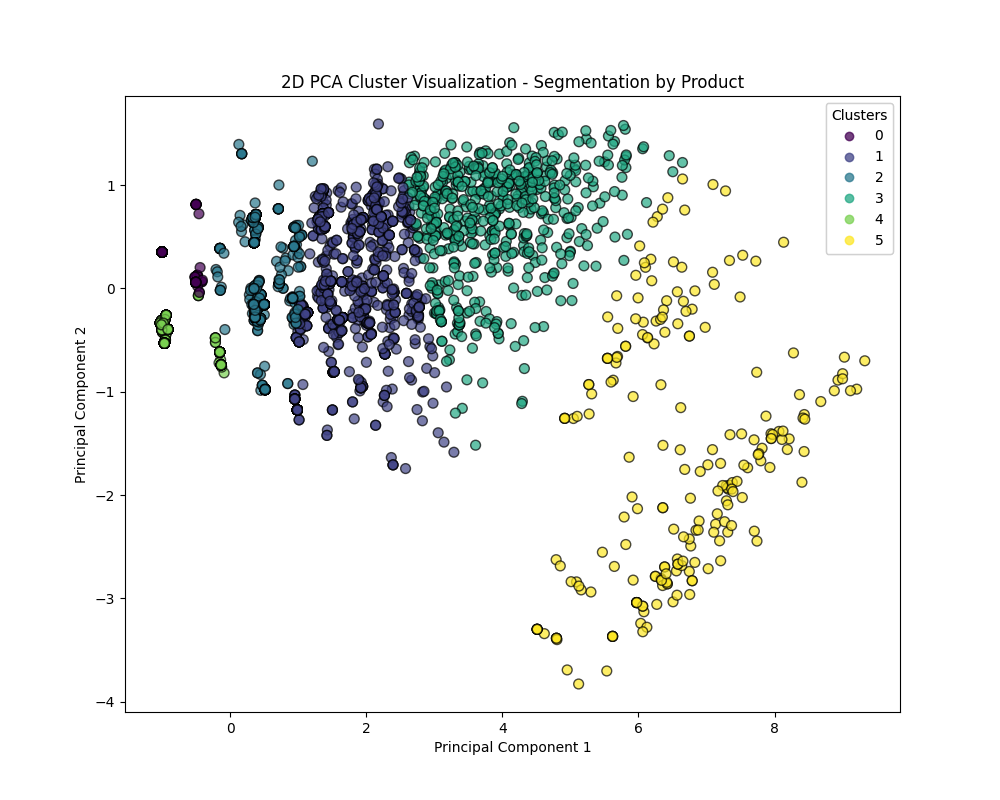
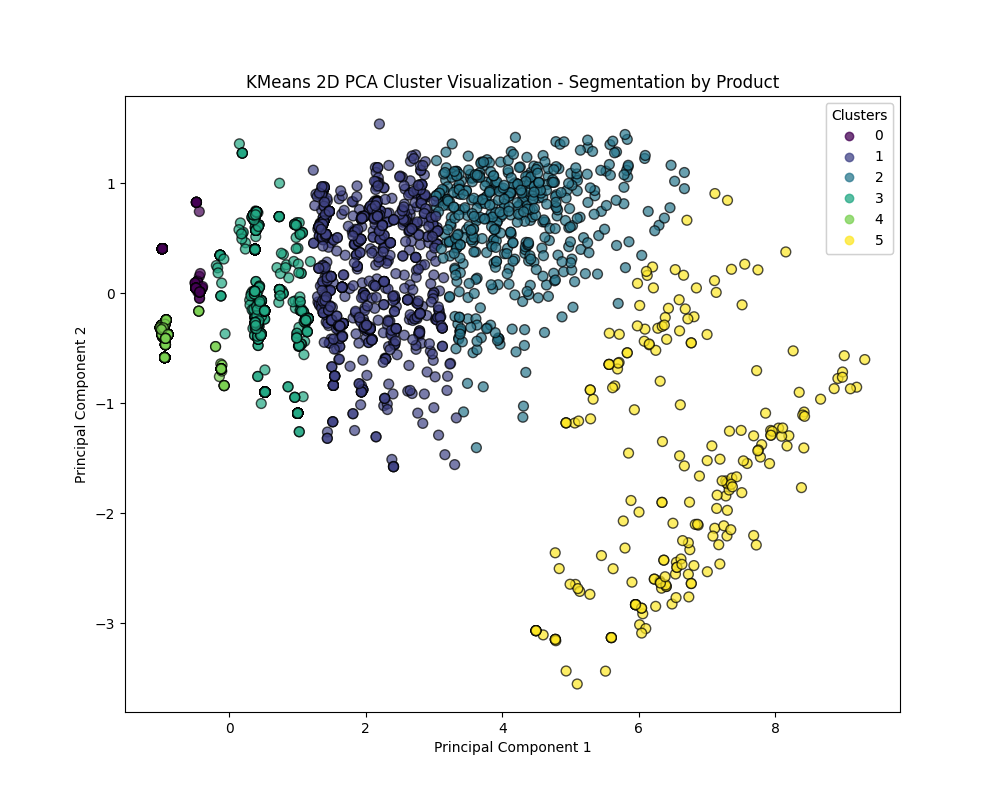
Expanded output data set to include transformed and encoded product columns for easier analysis and visualization

diff --git a/templates/results.html b/templates/results.html
@@ -35,7 +35,7 @@
         </div>
         <div style="text-align: left">
             <h3>Next Steps</h3>
-            <p>Your downloaded file is an exact duplicate of the one you uploaded, except it has a new column "Segment" appended to the end of your data table. This is your new segmentation data, and has values between 1 and 6.</p>
+            <p>Your downloaded file is an exact duplicate of the one you uploaded, except it has several new columns including product and tag counts, individual products, and most importantly, a "Segment" column appended to the end of your data table. This is your new segmentation data, and has values between 1 and 6.</p>
             <p>
                 Explore your data against the "Segment" column to find patterns within your new customer segments, such as:
                 <ul>

diff --git a/src/models/kmeans_clustering_test.py b/src/models/kmeans_clustering_test.py
@@ -61,19 +61,10 @@ lf = LogTransformer()
 lf.fit(df_filtered)
 df_logtransformed = lf.transform(df_filtered)
 
-# Add log-transformed features to the original dataframe
-new_features = df_logtransformed[["Log_Product_Count", "Log_Tags_Count"]]
-df_filtered = pd.concat([df_filtered, new_features], axis=1)
-
 # Apply Count Vectorization to products
 bmf = BinaryMatrixTransformer()
 bmf.fit(df_logtransformed)
-X_combined_prod = bmf.transform(df_logtransformed)
-
-# Add binary product columns to the original dataframe
-selected_columns = X_combined_prod.iloc[:, 2:-3]
-df_filtered = pd.concat([df_filtered, selected_columns], axis=1)
-
+X = bmf.transform(df_logtransformed)
 
 # --------------------------------------------------------------
 # Apply KMeans clustering
@@ -81,14 +72,13 @@ df_filtered = pd.concat([df_filtered, selected_columns], axis=1)
 
 kmeans = KMeans(n_clusters=6, random_state=42)
 
-X = df_filtered.iloc[:, 7:]
+# Run the KMeans model
+df_filtered = pd.read_pickle("../../data/interim/binary_df_full.pkl")
 df_filtered["KMeans_Cluster"] = kmeans.fit_predict(X)
 
-score = silhouette_score(X_combined_prod, df_filtered["KMeans_Cluster"])
+score = silhouette_score(X, df_filtered["KMeans_Cluster"])
 print("Silhouette Score for KMeans Clustering:", score)
 
-# Be sure to drop the 'Product_Count' and 'Tags_Count' columns so they don't bias the model
-X.drop(columns=["Product_Count", "Tags_Count"], inplace=True)
 
 # --------------------------------------------------------------
 # Use PCA to plot visualization
@@ -198,16 +188,10 @@ plotter.BarPlotter(
 # Save the segmented dataset
 # --------------------------------------------------------------
 
-new_df = df.merge(
-    df_filtered[
-        ["ID", "KMeans_Cluster", "KMeans_3D_PCA_Cluster", "GMM_3D_PCA_Cluster"]
-    ],
-    on="ID",
-    how="left",
-)
+new_columns = pd.concat([df_filtered["ID"], df_filtered.iloc[:, 7:]], axis=1)
+new_df = df_train.merge(new_columns, on="ID", how="left")
+new_df.drop(columns=["Log_Product_Count", "Log_Tags_Count"], inplace=True)
 new_df.to_csv("../../data/processed/DDU - Segmented Kajabi Data.csv")
-
-new_df.describe()
 
 # --------------------------------------------------------------
 # Save the KMeans models
@@ -220,9 +204,9 @@ joblib.dump(gmm_3d, "../../models/gmm_3d.pkl")
 
 
 # --------------------------------------------------------------
-# Fit the pipeline on trained data and then save it
+# Fit the pipeline on the data and then save it
 # --------------------------------------------------------------
-trained_data = pd.read_csv("../../data/raw/DDU - Raw Kajabi Data.csv")
+data = pd.read_csv("../../data/raw/DDU - Raw Kajabi Data.csv")
 pipeline = create_pipeline()
-pipeline.fit(trained_data)
+pipeline.fit(data)
 save_pipeline(pipeline, "../../models/pca_pipeline.pkl")

diff --git a/src/models/kmeans_clustering.py b/src/models/kmeans_clustering.py
@@ -103,16 +103,12 @@ class LogTransformer(BaseEstimator, TransformerMixin):
             index=df_transformed.index,
         )
 
-        # Add other columns that should be passed through
-        for col in df.columns:
-            if col not in df_scaled.columns and col not in [
-                "Product_Count",
-                "Tags_Count",
-            ]:
-                df_scaled[col] = df[col]
+        # Add log-transformed features to the original dataframe
+        new_features = df_scaled[["Log_Product_Count", "Log_Tags_Count"]]
+        df = pd.concat([df, new_features], axis=1)
 
         # Convert the scaled features back to a DataFrame
-        return df_scaled
+        return df
 
 
 # Instead of using lambda function, we can use tokenizer_func to pickle the pipeline
@@ -162,4 +158,23 @@ class BinaryMatrixTransformer(BaseEstimator, TransformerMixin):
             axis=1,
         )
 
-        return df_binary
+        # Add binary product columns to the original dataframe
+        selected_columns = df_binary.iloc[:, 2:-3]
+        df = pd.concat([df, selected_columns], axis=1)
+
+        # -----------------------------
+        # EXPORT FULL BINARY SET TO TEMP DATAFRAME
+        # -----------------------------
+
+        # Use root path for production enviroment:
+        df.to_pickle("data/interim/binary_df_full.pkl")
+
+        # Use "../../data" path for testing
+        # df.to_pickle("../../data/interim/binary_df_full.pkl")
+
+        # Be sure to drop the 'Product_Count' and 'Tags_Count' columns so they don't bias the model
+        X = df.iloc[:, 7:]
+        X.drop(columns=["Product_Count", "Tags_Count"], inplace=True)
+
+        # Return the transformed dataframe
+        return X

diff --git a/app.py b/app.py
@@ -62,6 +62,9 @@ def upload_file():
             print(f"Error transforming the data: {e}")
             return f"Error processing file: {str(e)}"
 
+        # Load the binary dataframe from temporary file
+        df_binary_full = pd.read_pickle("data/interim/binary_df_full.pkl")
+
         # Run the model on the transformed data
         if model_choice == "kmeans":
             clusters_3d = kmeans_model.predict(X_pca_3d)
@@ -74,12 +77,14 @@ def upload_file():
         score_3d = silhouette_score(X_pca_3d, clusters_3d)
 
         # Add the cluster labels to the dataframe
-        df_pca = pd.DataFrame(X_pca_3d, columns=["PCA_1", "PCA_2", "PCA_3"])
-        df_pca["Segment"] = clusters_3d
+        df_binary_full["Segment"] = clusters_3d
 
-        # Perform the left join
-        df_pca["ID"] = df["ID"].reset_index(drop=True)
-        df_merged = df.merge(df_pca[["ID", "Segment"]], on="ID", how="left")
+        # Perform the left join and remove unnecessary columns
+        new_columns = pd.concat(
+            [df_binary_full["ID"], df_binary_full.iloc[:, 7:]], axis=1
+        )
+        df_merged = df.merge(new_columns, on="ID", how="left")
+        df_merged.drop(columns=["Log_Product_Count", "Log_Tags_Count"], inplace=True)
 
         # Offset the cluster labels by 1 so they start from 1
         df_merged["Segment"] = df_merged["Segment"] + 1
@@ -128,4 +133,4 @@ def download_test_csv():
 
 
 if __name__ == "__main__":
-    app.run(debug=True)
+    app.run(debug=False)
